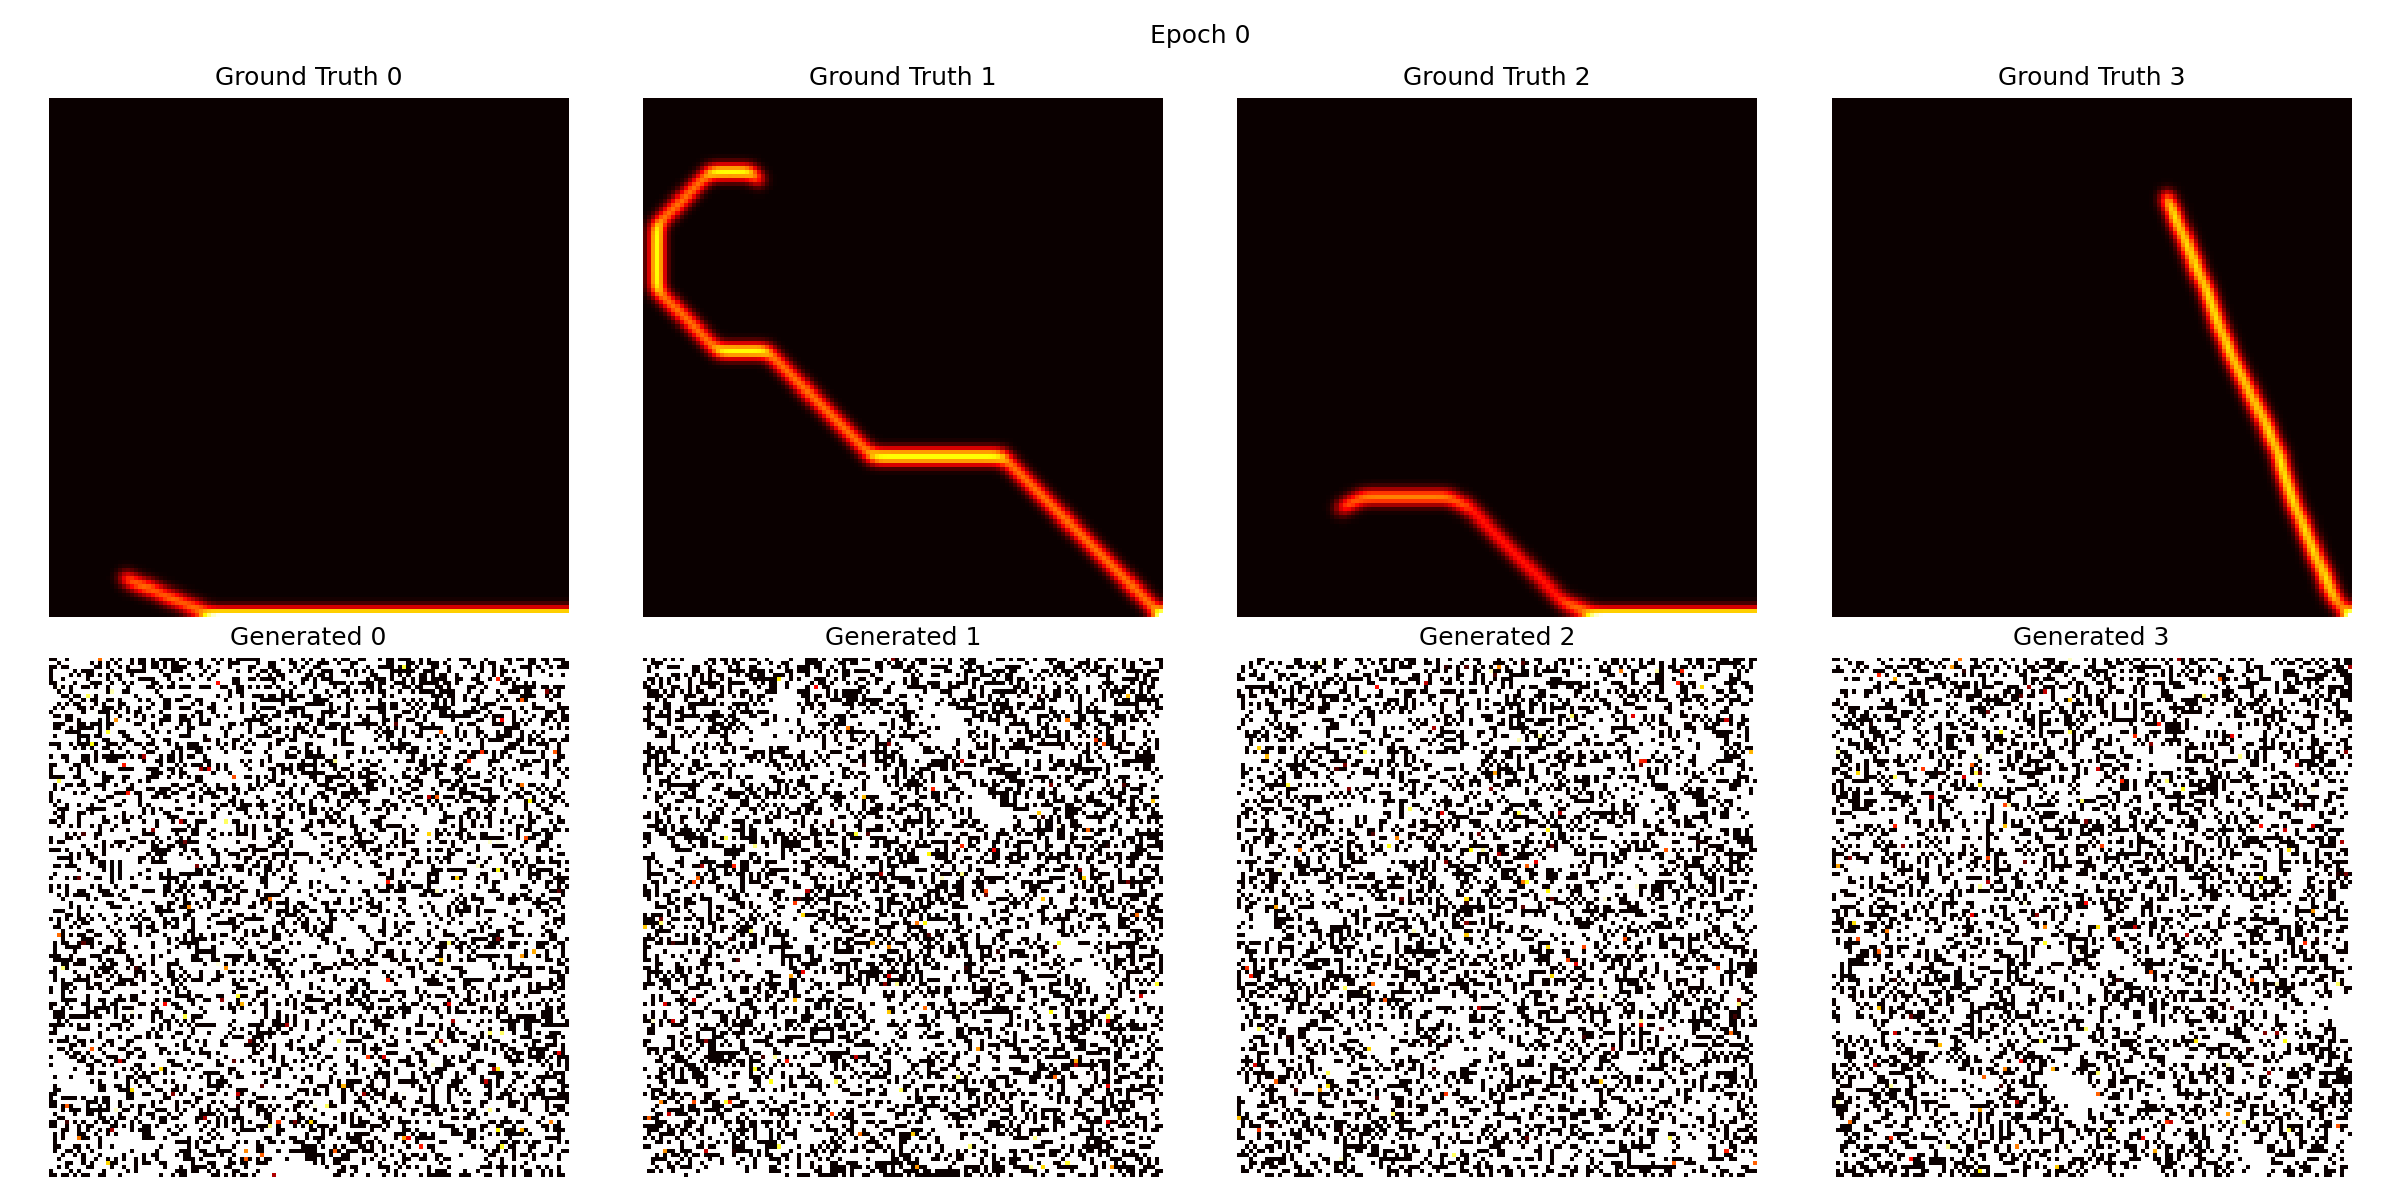
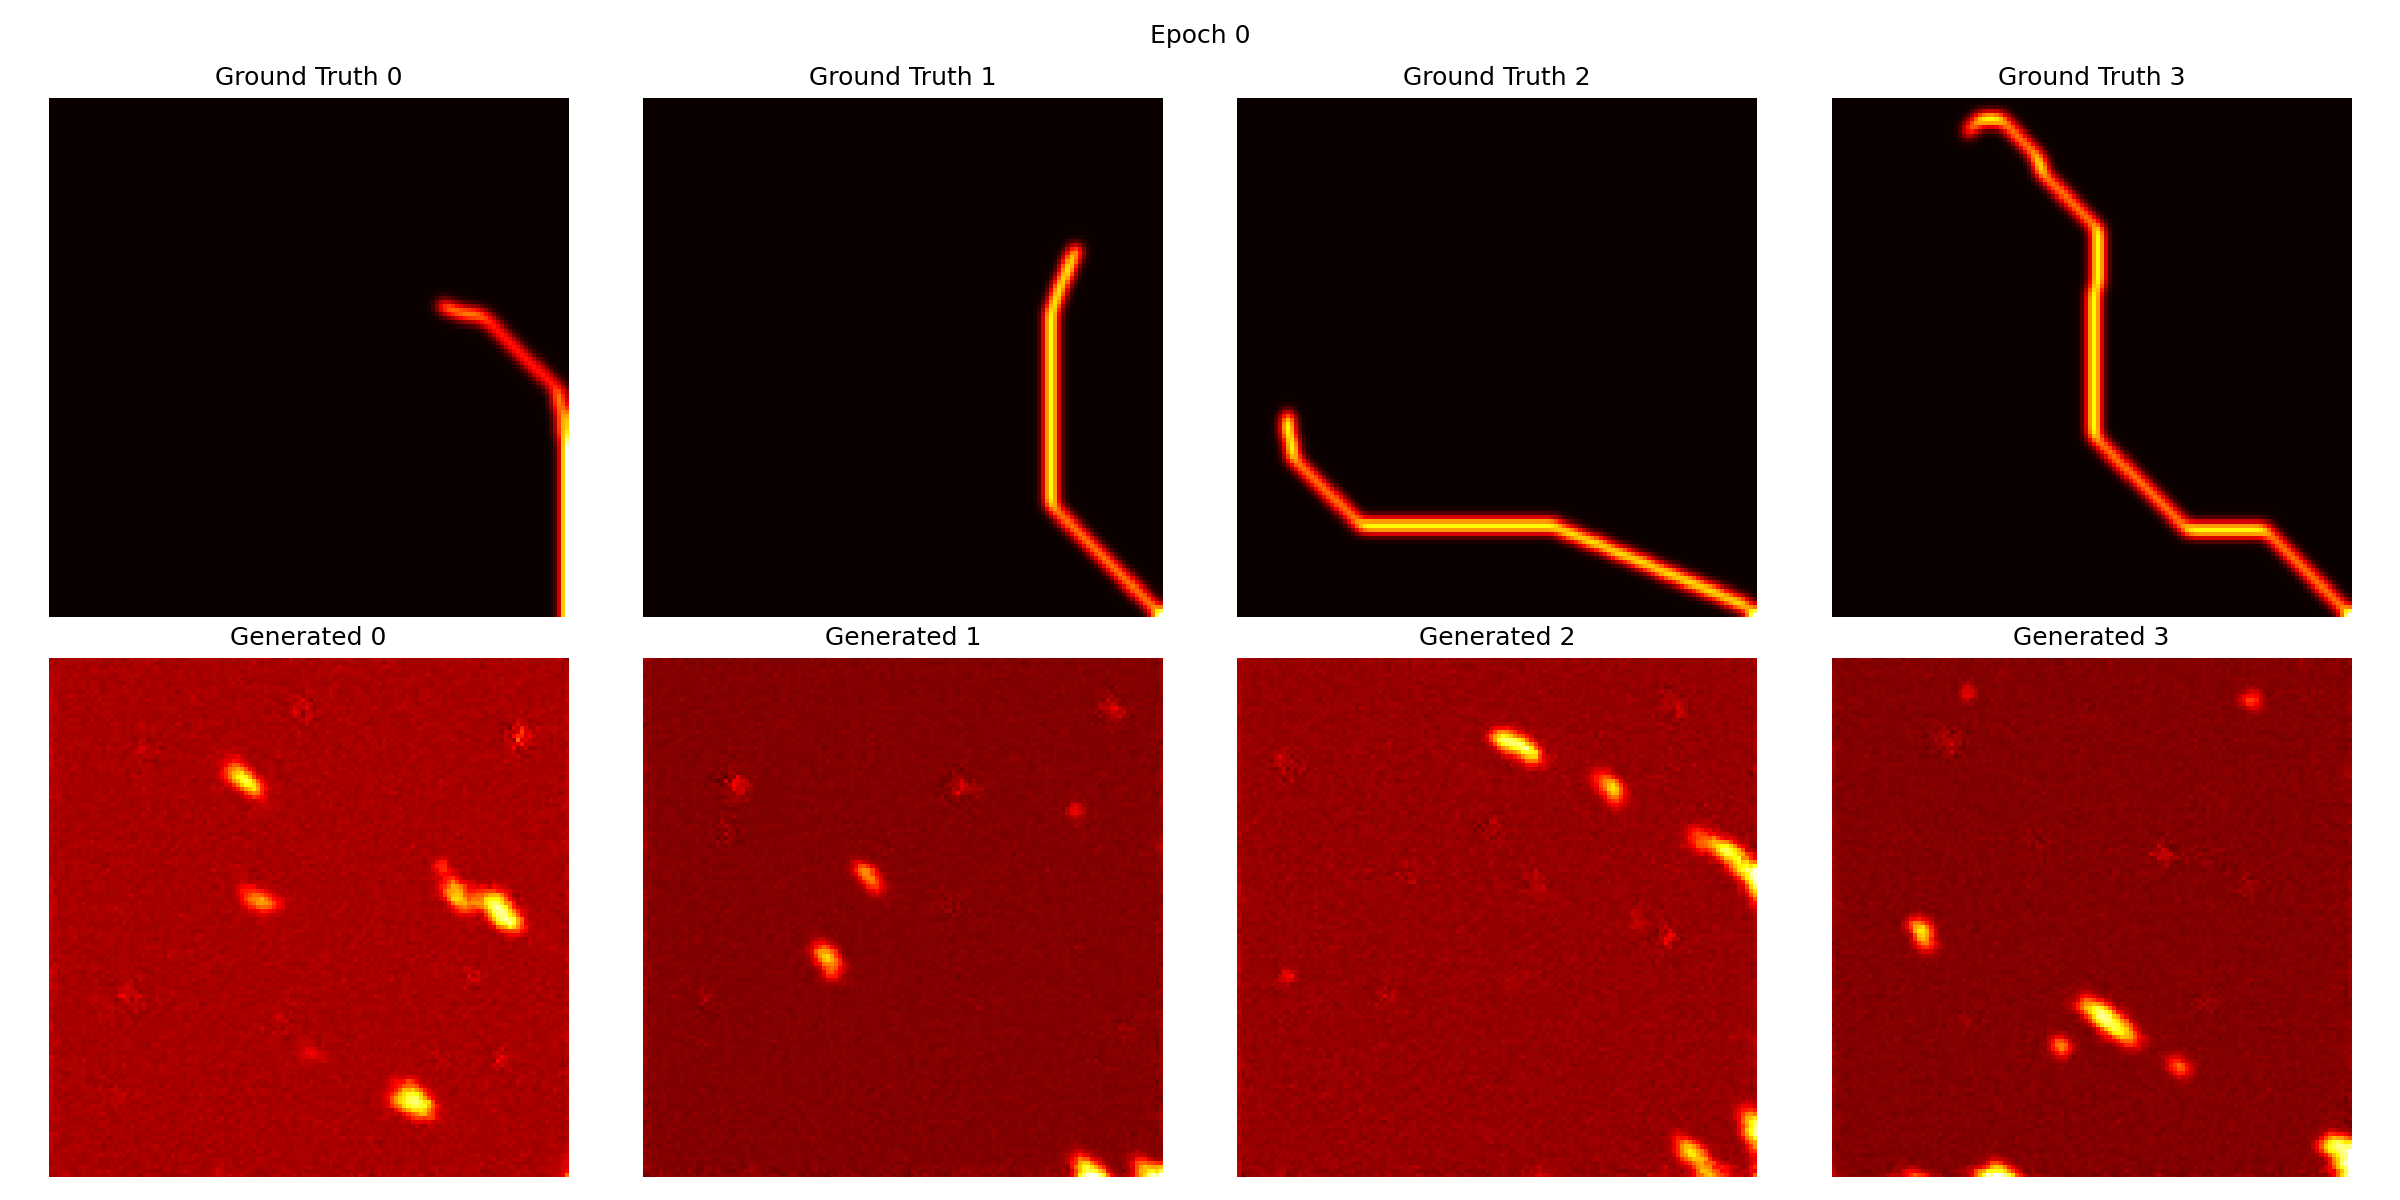
a

diff --git a/MoE/ddpm.py b/MoE/ddpm.py
@@ -64,40 +64,30 @@ class DDPM:
         """
         Reverse process
         """
-        
+       
         B = x_t.shape[0]
         t_tensor = torch.full((B,), t, device=x_t.device, dtype=torch.long)
         
         noise_pred = model(x_t, t_tensor, conditioning)
         
+        # Predict x_0 and clamp it (not x_{t-1})
+        x0_pred = self.predict_start_from_noise(x_t, t_tensor, noise_pred)
+        x0_pred = torch.clamp(x0_pred, -1.0, 1.0)
+        
+        # Recompute mean from clamped x_0
         alpha_t = self.alphas[t]
         alpha_bar_t = self.alpha_bar[t]
         beta_t = self.betas[t]
         
-        noise_coef = beta_t / self.sqrt_one_minus_alpha_bar[t]
-        sqrt_recip_alpha = 1.0 / torch.sqrt(alpha_t)
-        mean = sqrt_recip_alpha * (x_t - noise_coef * noise_pred)
+        mean = (torch.sqrt(alpha_t) * (1 - alpha_bar_t / alpha_t) / (1 - alpha_bar_t)) * x_t \
+             + (torch.sqrt(alpha_bar_t / alpha_t) * beta_t / (1 - alpha_bar_t)) * x0_pred
         
         if t > 0:
             noise = torch.randn_like(x_t)
             sigma = torch.sqrt(beta_t)
-            #x_prev_unclamped = mean + sigma * noise
             x_prev = mean + sigma * noise
-
-            if return_logprob:
-                x_action = x_prev_unclamped.detach()
-
-                log_2pi = math.log(2.0 * math.pi)
-                log_prob_elem = -0.5 * ((x_action - mean) / sigma) ** 2 \
-                                - torch.log(sigma) - 0.5 * log_2pi
-                log_prob = log_prob_elem.flatten(1).sum(dim=1)  # (B,)
-            
-            #x_prev = torch.clamp(x_prev_unclamped, -1.0, 1.0)
         else:
             x_prev = mean
-            x_prev = torch.clamp(x_prev, -1.0, 1.0)
-            if return_logprob:
-                log_prob = torch.zeros((B,), device=x_t.device)
         
         if return_logprob:
             return x_prev, log_prob
